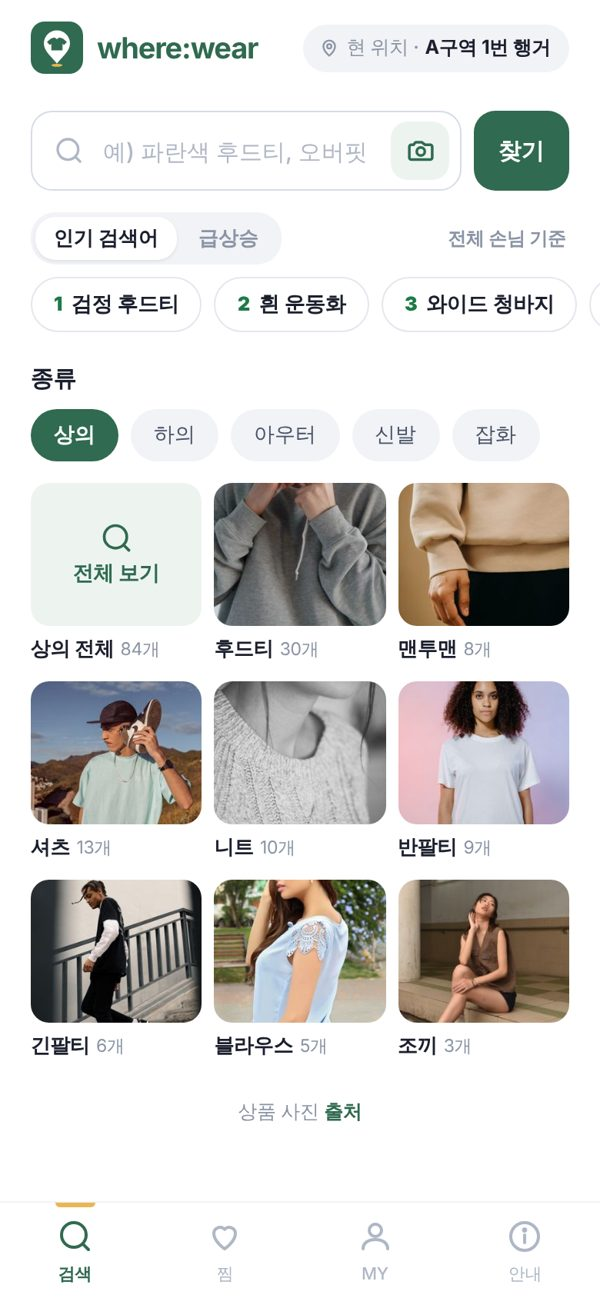
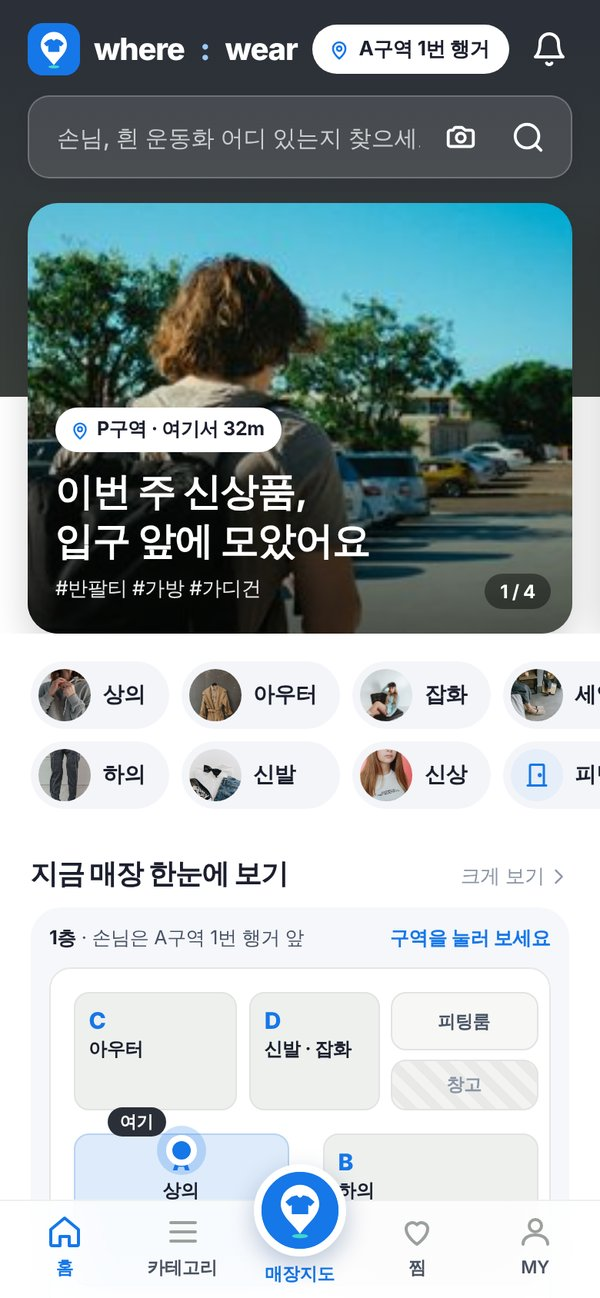
README 최신화: 파랑 디자인 화면 사진 · 매장지도 · 키오스크 · PC 틀 설명, 영어 홈 문구 번역
- docs/screens: 최신 화면으로 다시 캡처 (홈 · 사진 찾기 · 위치 · 매장지도 · English · 키오스크 · 종이 지도 · 직원)
- 새 사진: qr_map.jpg, qr_cats.jpg, pc_frames.jpg (PC에서 휴대폰 · 키오스크 틀)
- README: 한눈에 보기 표를 손님 / 키오스크·직원 / PC로 나누고, 기능 표에 /cats · /map · /kiosk/place 추가
- i18n.py: 영어 홈 · 매장지도에서 한국어가 섞여 나오던 문구(신상, 배너, 매장 한눈에 보기 등) 번역 추가

Claude-Session: https://claude.ai/code/session_01Pk6Hz2fHMn63pcDGUjX9Ny

diff --git a/i18n.py b/i18n.py
@@ -29,7 +29,7 @@ WORDS = {
     "무지": "Solid", "스트라이프": "Stripe", "체크": "Check", "로고·그래픽": "Logo/Graphic", "꽃무늬": "Floral", "기타": "Other",
     "핏": "Fit", "무늬": "Pattern", "패턴": "Pattern", "핏·무늬": "Fit & Pattern",
     # 단
-    "상단": "Upper", "중단": "Middle", "하단": "Lower", "상": "Up", "중": "Mid", "하": "Low",
+    "신상품": "New arrivals", "신상": "New", "상단": "Upper", "중단": "Middle", "하단": "Lower", "상": "Up", "중": "Mid", "하": "Low",
     # 상품명 낱말
     "3팩": "3-Pack", "UV": "UV", "감탄팬츠": "Comfort Pants", "경량": "Light", "골지": "Ribbed", "그래픽": "Graphic",
     "기모": "Fleece-lined", "긴팔": "Long-sleeve", "나일론": "Nylon", "다운": "Down", "더비": "Derby", "데님": "Denim",
@@ -371,6 +371,30 @@ def _words(s):
         out.append(_WORD_RX.sub(lambda m: " " + WORDS[m.group(0)] + " ", tok))
     r = re.sub(r"\s+", " ", " ".join(out)).strip()
     return re.sub(r"\s+([)\],.])", r"\1", re.sub(r"([(\[])\s+", r"\1", r))
+
+
+# QR v3 홈 · 매장지도 · 카테고리 (2026.11)
+PHRASES.update({
+    "이번 주 신상품,": "New this week,", "입구 앞에 모았어요": "all by the entrance",
+    "할인 매대에서": "Pick something light", "가볍게 골라 보세요": "from the sale table",
+    "따뜻한 아우터는": "Warm outerwear is", "C구역에 모여 있어요": "all in Zone C",
+    "AI 사진 검색": "AI photo search", "사진 한 장이면": "One photo is all it takes —",
+    "매장에서 찾아 드려요": "we'll find it in store", "SNS에서 본 그 옷 · 캡처도 OK": "Seen it on social media? Screenshots work too",
+    "세일": "Sale", "지금 매장 한눈에 보기": "The store at a glance", "크게 보기": "Bigger", "1층": "1F",
+    "구역을 눌러 보세요": "Tap a zone", "여기": "Here", "매장 지도 크게 보기": "Open the big store map",
+    "처음 오셨나요? 매장 이용 가이드": "First time here? How to use this store",
+    "옷 찾기부터 직원 호출까지 1분이면 끝나요": "From finding clothes to calling staff — done in a minute",
+    "손님, 이 옷 어때요?": "How about these?", "전체보기": "See all", "다른 손님들은 이걸 찾아요": "What other shoppers look for",
+    "옷 위치 안내 프로토타입": "in-store clothing guide prototype",
+    "도움이 필요하면 상품 화면의 '찾는 게 없나요?'로 직원을 불러 주세요 · 사진": "Need help? Tap 'Can't find it?' on an item to call staff · Photo",
+    "홈": "Home", "카테고리": "Categories", "매장지도": "Map", "매장 지도": "Store map", "지금": "You are", "앞이에요": "now",
+    "주황 점이 지금 내 위치, 점선이 가는 길이에요. 구역을 누르면 그 구역 옷을 보여 드려요.": "The orange dot is you and the dotted line is the route. Tap a zone to see its clothes.",
+})
+PATTERNS.insert(0, _p(r"· 손님은 (.+) 앞", lambda m, t: f"· You are at {t(m[1])}"))
+PHRASES["전체 손님"] = "All shoppers"
+PATTERNS.insert(0, _p(r"손님, (.+) 어디 있는지 찾으세요\?", lambda m, t: f"Looking for {t(m[1]).lower()}?"))
+PATTERNS.insert(0, _p(r"(\d+:\d+) 기준", lambda m, t: f"as of {m[1]}"))
+PATTERNS.insert(0, _p(r"여기서 약 (\d+)m", lambda m, t: f"about {m[1]} m from here"))
 
 def tr(s):
     """한 덩어리 글자를 영어로. 앞뒤 공백은 그대로 둔다."""

diff --git a/README.md b/README.md
@@ -26,22 +26,31 @@ python app.py                 # http://localhost:5001/go?at=A-H1
 - 사진으로 찾기(AI)를 쓰려면 [Google AI Studio](https://aistudio.google.com/apikey)에서 받은 Gemini 키를 `gemini_key.txt`에 넣으세요. 키는 `.gitignore`로 제외되어 저장소에 없습니다. 키가 없으면 사진의 대표 색으로 찾습니다.
 - 발표용 예시 데이터: `/demo`
 - macOS: `서버켜기.command` 더블클릭
+- PC로 열면 휴대폰 · 키오스크 모양 틀 안에 보입니다. 틀 없이 보려면 주소 끝에 `?noframe=1`
 
 ---
 
 ## 한눈에 보기
 
-| 손님 QR · 홈 | 사진으로 찾기 (AI) | 위치 + 2D 길 안내 | English | 직원 신고함 |
+**손님 (매장 QR)** — 앱 설치 없이 휴대폰으로 바로 열림
+
+| 홈 | 사진으로 찾기 (AI) | 위치 + 2D 길 안내 | 매장 지도 | English |
 |:---:|:---:|:---:|:---:|:---:|
-| <img src="docs/screens/qr_home.jpg" width="160"> | <img src="docs/screens/qr_photo.jpg" width="160"> | <img src="docs/screens/qr_item.jpg" width="160"> | <img src="docs/screens/qr_item_en.jpg" width="160"> | <img src="docs/screens/staff_reports.jpg" width="160"> |
-| 매장 QR을 찍으면<br>앱 없이 바로 열림 | Vision AI가 옷 특징을 뽑고<br>가장 비슷한 옷을 일치도와 함께 | "C구역 · 벽면 선반 · 중단"<br>+ 경로 · 사이즈별 재고 | 휴대폰 언어에 맞춰<br>영어 화면 | 손님 신고 · 호출 확인<br>+ 한 번에 도는 경로 |
+| <img src="docs/screens/qr_home.jpg" width="160"> | <img src="docs/screens/qr_photo.jpg" width="160"> | <img src="docs/screens/qr_item.jpg" width="160"> | <img src="docs/screens/qr_map.jpg" width="160"> | <img src="docs/screens/qr_item_en.jpg" width="160"> |
+| 지금 내 자리 · 이번 주 배너<br>· 매장 한눈에 보기 · 추천 | Vision AI가 옷 특징을 뽑고<br>가장 비슷한 옷을 일치도와 함께 | "C구역 · 벽면 선반 · 중단"<br>+ 경로 · 사이즈별 재고 | 피팅룸 · 계산대 · 매대까지<br>거리와 걸리는 시간 | 휴대폰 언어에 맞춰<br>영어 화면 |
 
-| 키오스크 (40대 이상) | 종이 지도 (80mm 감열지) |
-|:---:|:---:|
-| <img src="docs/screens/kiosk_item.jpg" width="474"> | <img src="docs/screens/kiosk_print.jpg" width="356"> |
-| 큰 글씨 · 글자 입력 없이 3번 터치 | 도면 + 꺾는 곳마다 번호 안내 (왼쪽 → 오른쪽 순서) |
+**키오스크 (입구 · 40대 이상)** 와 **직원**
 
-> 화면은 모두 이 저장소의 코드를 실행해 캡처했습니다. 신고함 숫자는 시연 모드(`/demo`)의 예시 데이터입니다.
+| 키오스크 첫 화면 | 키오스크 위치 | 종이 지도 (80mm 감열지) | 직원 등록 | 직원 신고함 |
+|:---:|:---:|:---:|:---:|:---:|
+| <img src="docs/screens/kiosk_home.jpg" width="170"> | <img src="docs/screens/kiosk_item.jpg" width="170"> | <img src="docs/screens/kiosk_print.jpg" width="250"> | <img src="docs/screens/staff_register.jpg" width="140"> | <img src="docs/screens/staff_reports.jpg" width="140"> |
+| 큰 글씨 · 글자 입력 없이 터치만<br>종류마다 구역 표시 · 매장 한눈에 보기 | 문장 길 안내 + 도면<br>창고에만 있는 사이즈는 가져다 드림 | 도면 + 꺾는 곳마다 번호 안내<br>(왼쪽 → 오른쪽 순서) | 선반 QR → 옷 태그<br>연속 스캔으로 위치 등록 | 손님 신고 · 호출 확인<br>+ 한 번에 도는 경로 |
+
+**PC · 노트북에서 열면** — 고객 · 직원 화면은 휴대폰 틀, 키오스크는 32인치 세로형(1080×1920) 틀 안에서 스크롤해 볼 수 있습니다 (`?noframe=1`이면 틀 없이).
+
+<p align="center"><img src="docs/screens/pc_frames.jpg" width="720"></p>
+
+> 화면은 모두 이 저장소의 코드를 실행해 캡처했습니다 (2026.11). 신고함 숫자는 시연 모드(`/demo`)의 예시 데이터, 사진으로 찾기는 실제 Gemini 응답을 저장해 둔 결과입니다.
 
 ---
 
@@ -121,13 +130,16 @@ python app.py                 # http://localhost:5001/go?at=A-H1
 
 | 주소 | 누구 | 내용 |
 |---|---|---|
-| `/go?at=A-H1` | 손님 (QR) | 글자 검색 · 사진으로 찾기(AI) · 종류 타일 · 인기 · 급상승 검색어 |
-| `/search` | 손님 | 종류 · 색 · 핏 · 무늬 필터, 딱 맞는 옷은 가까운 순 |
+| `/go?at=A-H1` | 손님 (QR) | 홈 — 글자 · 사진(AI) 검색, 이번 주 배너(구역 · 거리), 종류 바로가기, 매장 한눈에 보기, 추천 옷, 인기 · 급상승 검색어 |
+| `/search` · `/cats` | 손님 | 종류 · 색 · 핏 · 무늬 필터(딱 맞는 옷은 가까운 순) · 종류별 사진 타일과 진열 위치 |
 | `/item/<sku>` | 손님 | 구역 · 집기 · 단 위치, 2D 길 안내, 사이즈별 매장 · 창고 재고, **찾았어요! / 찾는 게 없나요?** |
+| `/map` | 손님 | 매장 지도 — 피팅룸 · 계산대 · 신상 · 할인 매대까지 길 안내 (거리 · 걸리는 시간) |
 | `/likes` · `/me` | 손님 | 찜목록(구역 순으로 모아 보기) · 내 사이즈(휴대폰에만 저장) |
-| `/kiosk` | 키오스크 | 큰 글씨 · 3번 터치 · 문장 길 안내 · 80mm 종이 지도 출력 |
+| `/kiosk` | 키오스크 | 큰 글씨 · 터치만으로 종류 → 세부 종류 → 색, 구역 표시 · 신상 · 세일 칸 · 매장 한눈에 보기 |
+| `/kiosk/place/<FIT·COUNTER>` | 키오스크 | 피팅룸 · 계산대 가는 길 |
+| `/kiosk/print/<sku>` | 키오스크 | 80mm 감열지 종이 지도 출력 (옷 QR 포함) |
 | `/staff` | 직원 | 선반 QR → 옷 태그 연속 스캔 등록, 사진 한 장으로 상품 등록(AI가 특징 입력) |
-| `/staff/reports` | 직원 | 기다리는 손님 · 위치 고칠 것, 잠금화면 알림 · 2분 미응답 재알림 |
+| `/staff/reports` | 직원 | 기다리는 손님 · 위치 고칠 것 · 한 번에 도는 길, 잠금화면 알림 · 2분 미응답 재알림 |
 | `/staff/summary` | 점장 | 찾은 비율 · 할 일 · 자주 못 찾는 자리 지도 |
 | `/lang` | 공통 | 손님 · 키오스크 · 직원 화면별 한국어 / English 전환 |
 
@@ -142,6 +154,7 @@ app.py            웹 서버 (손님 · 키오스크 · 직원 화면 + API)
 vision.py         사진 → Gemini → 특징(JSON) → 비슷한 옷 순위
 search.py         글자 검색 (한국어 · 영어 색 · 종류 · 핏 사전)
 i18n.py           영어 화면
+static/frame.js   PC에서 열면 휴대폰 · 키오스크 모양 틀로 보여 주기
 store_map.py      매장 도면 (5개 구역 · 집기 21개 · 피팅룸 · 창고 · 계산대)
 seed.py           가상 매장 데이터 · 색상표
 webpush.py        직원 잠금화면 알림 (Web Push)
